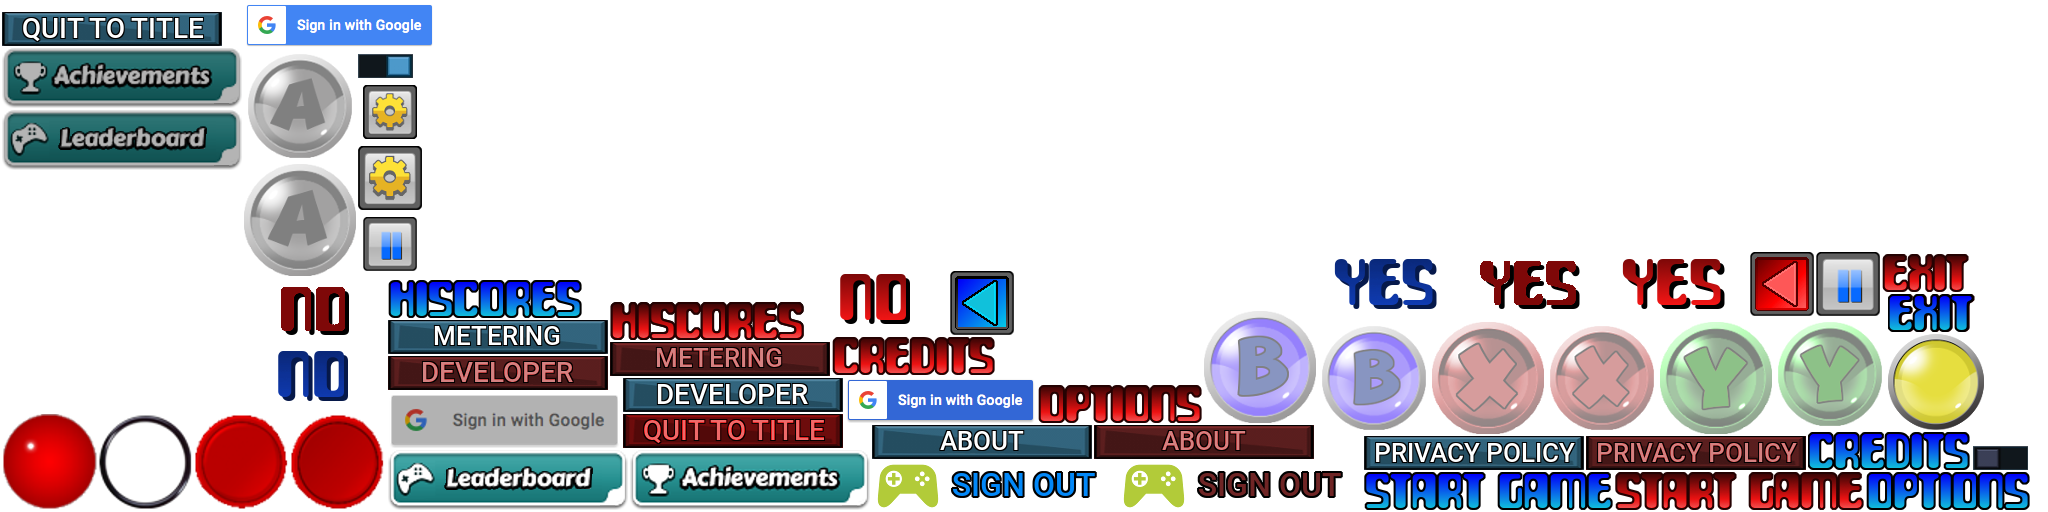
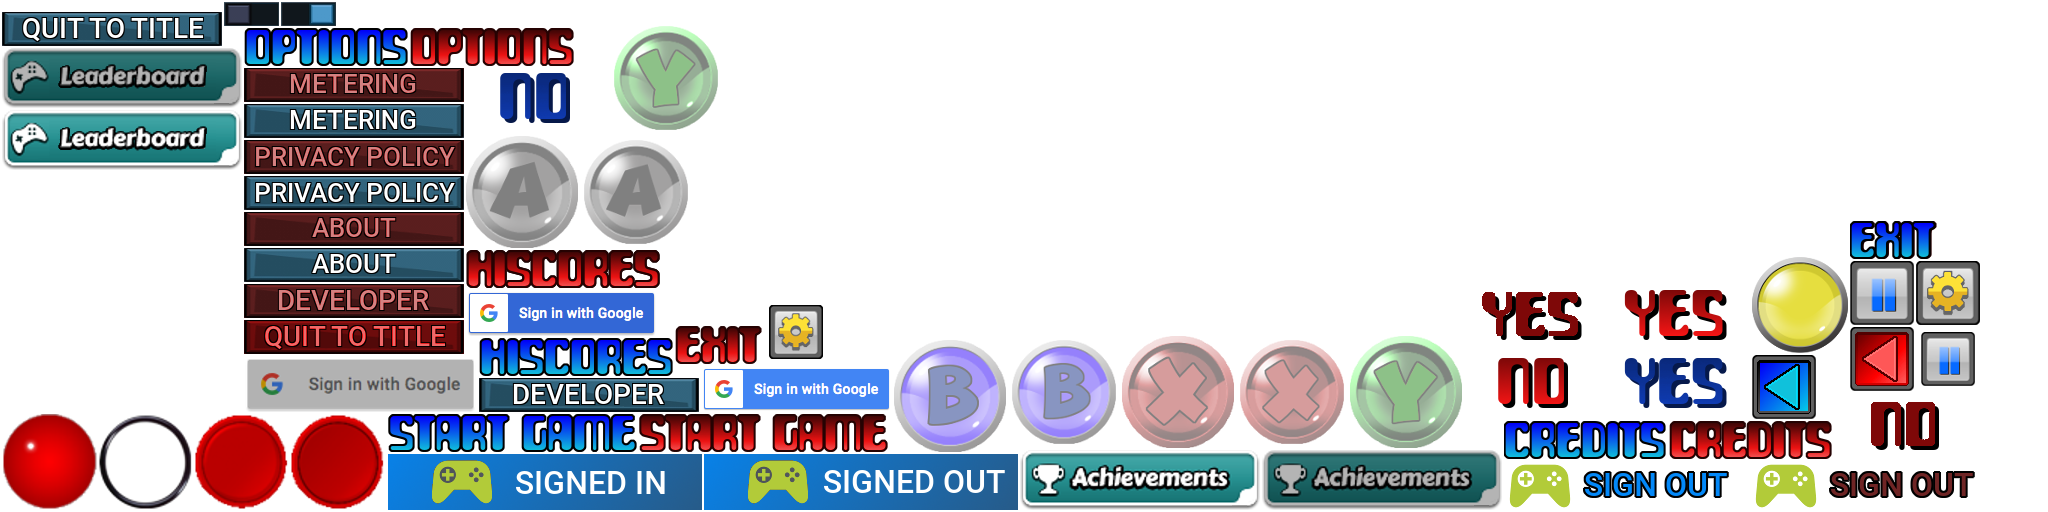
Back to normal

diff --git a/core/src/com/richikin/jetman/screens/OptionsPage.java b/core/src/com/richikin/jetman/screens/OptionsPage.java
@@ -10,23 +10,23 @@ import com.badlogic.gdx.scenes.scene2d.InputEvent;
 import com.badlogic.gdx.scenes.scene2d.actions.Actions;
 import com.badlogic.gdx.scenes.scene2d.ui.CheckBox;
 import com.badlogic.gdx.scenes.scene2d.ui.ImageButton;
+import com.badlogic.gdx.scenes.scene2d.ui.Label;
 import com.badlogic.gdx.scenes.scene2d.ui.Skin;
 import com.badlogic.gdx.scenes.scene2d.utils.ChangeListener;
 import com.badlogic.gdx.scenes.scene2d.utils.ClickListener;
 import com.richikin.enumslib.ScreenID;
 import com.richikin.jetman.assets.GameAssets;
 import com.richikin.jetman.config.AppConfig;
-import com.richikin.jetman.developer.DeveloperPanel;
 import com.richikin.jetman.config.Settings;
-import com.richikin.jetman.config.Version;
 import com.richikin.jetman.core.App;
+import com.richikin.jetman.developer.Developer;
+import com.richikin.jetman.developer.DeveloperPanel;
+import com.richikin.jetman.ui.IUIPage;
 import com.richikin.jetman.ui.InstructionsPanel;
 import com.richikin.jetman.ui.PrivacyPolicyPanel;
 import com.richikin.jetman.ui.Scene2DUtils;
 import com.richikin.jetman.ui.StatsPanel;
-import com.richikin.jetman.developer.Developer;
 import com.richikin.utilslib.logging.Trace;
-import com.richikin.jetman.ui.IUIPage;
 
 public class OptionsPage implements IUIPage
 {
@@ -34,7 +34,7 @@ public class OptionsPage implements IUIPage
     private ImageButton        buttonPrivacy;
     private ImageButton        buttonStoryLine;
     private ImageButton        buttonDevOptions;
-    private ImageButton        buttonSignOut;
+    private ImageButton        buttonGoogle;
     private CheckBox           musicCheckBox;
     private CheckBox           fxCheckBox;
     private CheckBox           vibrateCheckBox;
@@ -233,25 +233,30 @@ public class OptionsPage implements IUIPage
         // ----------
         if (AppConfig.currentScreenID == ScreenID._MAIN_MENU)
         {
-            buttonPrivacy   = scene2DUtils.addButton("new_privacy_policy_button", "new_privacy_policy_button_pressed", (int) AppConfig.hudOriginX + 401, (int) AppConfig.hudOriginY + (720 - 511));
-            buttonStoryLine = scene2DUtils.addButton("new_objectives_button", "new_objectives_button_pressed", (int) AppConfig.hudOriginX + 401, (int) AppConfig.hudOriginY + (720 - 558));
+            buttonPrivacy = scene2DUtils.addButton
+                (
+                    "new_privacy_policy_button",
+                    "new_privacy_policy_button_pressed",
+                    (int) AppConfig.hudOriginX + 401,
+                    (int) AppConfig.hudOriginY + (720 - 511)
+                );
+
+            buttonStoryLine = scene2DUtils.addButton
+                (
+                    "new_objectives_button",
+                    "new_objectives_button_pressed",
+                    (int) AppConfig.hudOriginX + 401,
+                    (int) AppConfig.hudOriginY + (720 - 558)
+                );
 
             // ----------
-            if (App.googleServices.isSignedIn())
-            {
-                if (Developer.isDevMode() || (Version.majorVersion == 0))
-                {
-                    buttonSignOut = scene2DUtils.addButton
-                        (
-                            "btn_google_signout_dark",
-                            "btn_google_signout_dark_pressed",
-                            (int) AppConfig.hudOriginX + 986,
-                            (int) AppConfig.hudOriginY + (720 - 80)
-                        );
-
-                    buttonSignOut.setSize(191, 46);
-                }
-            }
+            buttonGoogle = scene2DUtils.addButton
+                (
+                    "signedOutButton",
+                    "signedInButton",
+                    (int) AppConfig.hudOriginX + 479,
+                    (int) AppConfig.hudOriginY + (720 - 241)
+                );
         }
 
         // ----------
@@ -298,6 +303,8 @@ public class OptionsPage implements IUIPage
         hintsCheckBox.setChecked(App.settings.isEnabled(Settings._SHOW_HINTS));
         musicCheckBox.setChecked(App.settings.isEnabled(Settings._MUSIC_ENABLED));
         fxCheckBox.setChecked(App.settings.isEnabled(Settings._SOUNDS_ENABLED));
+
+        buttonGoogle.setChecked(App.googleServices.isSignedIn());
     }
 
     /**
@@ -313,9 +320,9 @@ public class OptionsPage implements IUIPage
             buttonStats.setVisible(_visibilty);
         }
 
-        if (buttonSignOut != null)
+        if (buttonGoogle != null)
         {
-            buttonSignOut.setVisible(_visibilty);
+            buttonGoogle.setVisible(_visibilty);
         }
 
         if (buttonPrivacy != null)
@@ -385,16 +392,16 @@ public class OptionsPage implements IUIPage
             });
         }
 
-        if (buttonSignOut != null)
+        if (buttonGoogle != null)
         {
-            buttonSignOut.addListener(new ClickListener()
+            buttonGoogle.addListener(new ClickListener()
             {
                 public void clicked(InputEvent event, float x, float y)
                 {
                     App.googleServices.signOut();
 
-                    buttonSignOut.addAction(Actions.removeActor());
-                    buttonSignOut = null;
+                    buttonGoogle.addAction(Actions.removeActor());
+                    buttonGoogle = null;
                 }
             });
         }
@@ -571,10 +578,10 @@ public class OptionsPage implements IUIPage
             hintsCheckBox = null;
         }
 
-        if (buttonSignOut != null)
+        if (buttonGoogle != null)
         {
-            buttonSignOut.addAction(Actions.removeActor());
-            buttonSignOut = null;
+            buttonGoogle.addAction(Actions.removeActor());
+            buttonGoogle = null;
         }
 
         App.assets.unloadAsset(GameAssets._OPTIONS_PANEL_ASSET);

diff --git a/core/src/com/richikin/jetman/ui/HeadsUpDisplay.java b/core/src/com/richikin/jetman/ui/HeadsUpDisplay.java
@@ -109,8 +109,6 @@ public class HeadsUpDisplay implements Disposable
     private static final int _MAX_TIMEBAR_LENGTH = 1000;
     private static final int _MAX_FUELBAR_LENGTH = 1000;
 
-    private float           originX;
-    private float           originY;
     private ProgressBar     timeBar;
     private ProgressBar     fuelBar;
     private Texture         scorePanel;
@@ -174,14 +172,6 @@ public class HeadsUpDisplay implements Disposable
         baseArrowIndex  = _ARROW_DOWN;
 
         drawFuelLow(StateID._INIT);
-
-//        alphaDisplay = new AlphaDisplay();
-//        alphaDisplay.initialise
-//            (
-//                (int) AppConfig.hudAppConfig.hudOriginX + 279,
-//                (int) AppConfig.hudAppConfig.hudOriginY + 20
-//            );
-//        alphaDisplay.setActive(true);
 
         hudStateID = StateID._STATE_PANEL_START;
 
@@ -451,13 +441,6 @@ public class HeadsUpDisplay implements Disposable
             {
                 pausePanel.draw(App.spriteBatch, camera, AppConfig.hudOriginX, AppConfig.hudOriginY);
             }
-            else
-            {
-                if (fuelLowWarning)
-                {
-                    drawFuelLow(StateID._UPDATE);
-                }
-            }
         }
     }
 
@@ -553,6 +536,11 @@ public class HeadsUpDisplay implements Disposable
      */
     private void drawItems()
     {
+        if (fuelLowWarning)
+        {
+            drawFuelLow(StateID._UPDATE);
+        }
+
         fuelBar.draw((int) (AppConfig.hudOriginX + displayPos[_FUEL_BAR][_X1]), (int) (AppConfig.hudOriginY + displayPos[_FUEL_BAR][_Y]));
         timeBar.draw((int) (AppConfig.hudOriginX + displayPos[_TIME_BAR][_X1]), (int) (AppConfig.hudOriginY + displayPos[_TIME_BAR][_Y]));
 
@@ -562,6 +550,7 @@ public class HeadsUpDisplay implements Disposable
                 (AppConfig.hudOriginX + displayPos[_FUEL_BAR][_X1] + fuelBar.getTotal()),
                 (AppConfig.hudOriginY + displayPos[_FUEL_BAR][_Y])
             );
+
         App.spriteBatch.draw
             (
                 barDividerTime,
@@ -665,11 +654,6 @@ public class HeadsUpDisplay implements Disposable
             {
                 messageManager.draw();
             }
-
-//            if (alphaDisplay.activeMessage)
-//            {
-//                alphaDisplay.drawBackground();
-//            }
         }
     }
 

diff --git a/core/src/com/richikin/jetman/core/EndgameManager.java b/core/src/com/richikin/jetman/core/EndgameManager.java
@@ -35,7 +35,19 @@ public class EndgameManager
         }
         else
         {
-            if (App.gameProgress.gameCompleted)
+            //
+            // Rover destroyed, Earth destroyed, the apocalypse is here...
+            // The Human Race is no more, you failed...!!!
+            if (App.gameProgress.roverDestroyed)
+            {
+                Trace.__FILE_FUNC_WithDivider("ROVER DESTROYED");
+                Trace.divider();
+
+                App.getPlayer().setAction(ActionStates._DEAD);
+            }
+            //
+            // Waheyy!! All levels completed!
+            else if (App.gameProgress.gameCompleted)
             {
                 Trace.__FILE_FUNC_WithDivider("GAME COMPLETED");
                 Trace.divider();
@@ -50,15 +62,23 @@ public class EndgameManager
 
                 returnFlag = true;
             }
-            else if (App.gameProgress.levelCompleted)
+            //
+            // LJM Successfully destroyed the missile base!
+            else if (App.gameProgress.baseDestroyed)
             {
-                Trace.__FILE_FUNC_WithDivider("LEVEL COMPLETED");
-                Trace.divider();
+                if (!App.getHud().messageManager.doesPanelExist("base_destroyed"))
+                {
+                    App.gameProgress.levelCompleted = true;
 
-                App.getHud().setStateID(StateID._STATE_LEVEL_FINISHED);
-                App.appState.set(StateID._STATE_LEVEL_FINISHED);
+                    Trace.__FILE_FUNC_WithDivider("LEVEL COMPLETED");
+                    Trace.dbg("app.gameProgress.levelCompleted: " + App.gameProgress.levelCompleted);
+                    Trace.divider();
 
-                returnFlag = true;
+                    App.getHud().setStateID(StateID._STATE_LEVEL_FINISHED);
+                    App.appState.set(StateID._STATE_LEVEL_FINISHED);
+
+                    returnFlag = true;
+                }
             }
             //
             // Restarting due to life lost and

diff --git a/core/src/com/richikin/jetman/entities/EntityManager.java b/core/src/com/richikin/jetman/entities/EntityManager.java
@@ -51,6 +51,7 @@ public class EntityManager implements IEntityManager
     // --------------------------------------------------
     // Indexes into manager list
     public int _alienManagerIndex;
+    public int _bombManagerIndex;
 
     // --------------------------------------------------
     // Indexes into entity list
@@ -80,7 +81,7 @@ public class EntityManager implements IEntityManager
         App.missileBaseManager      = new MissileBaseManager();
         App.defenceStationManager   = new DefenceStationManager();
 
-        App.entityData.addManager(new BombManager());
+        _bombManagerIndex = App.entityData.addManager(new BombManager());
         _alienManagerIndex = App.entityData.addManager(new AlienManager());
     }
 

diff --git a/core/src/com/richikin/jetman/core/GameProgress.java b/core/src/com/richikin/jetman/core/GameProgress.java
@@ -166,13 +166,13 @@ public class GameProgress implements Disposable
         playerLevel = 1;
     }
 
-    @Override
-    public void dispose()
-    {
-    }
-
     public float getGameDifficulty()
     {
         return gameDiffculty;
+    }
+
+    @Override
+    public void dispose()
+    {
     }
 }

diff --git a/core/src/com/richikin/jetman/entities/structures/MissileBase.java b/core/src/com/richikin/jetman/entities/structures/MissileBase.java
@@ -214,5 +214,6 @@ public class MissileBase extends GdxSprite
         App.missileBaseManager.free();
         collisionObject.kill();
         App.entityData.removeEntity(index);
+        App.gameProgress.levelCompleted = true;
     }
 }
